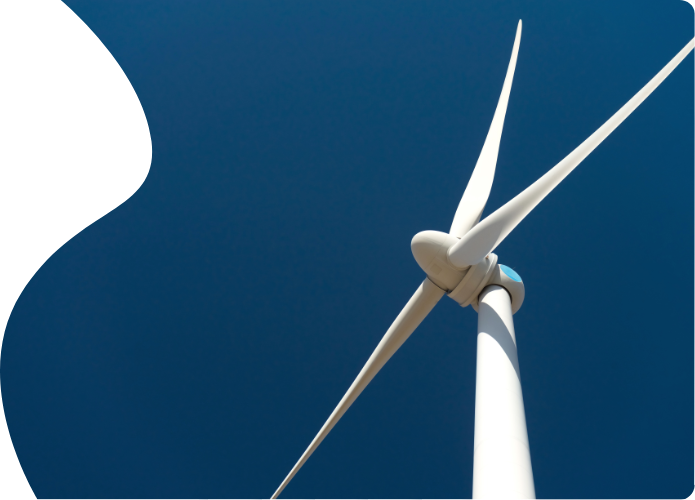
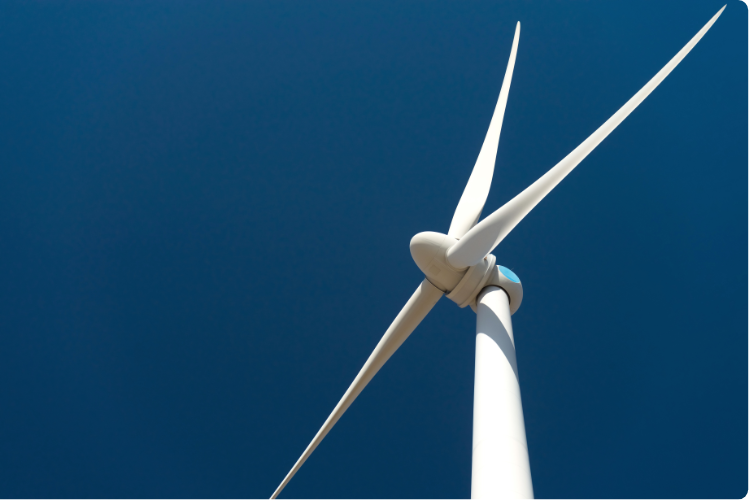
Responsive

diff --git a/index.html b/index.html
@@ -10,8 +10,8 @@
     <script src="https://code.jquery.com/jquery-3.2.1.slim.min.js" integrity="sha384-KJ3o2DKtIkvYIK3UENzmM7KCkRr/rE9/Qpg6aAZGJwFDMVNA/GpGFF93hXpG5KkN" crossorigin="anonymous"></script>
     <script src="https://cdnjs.cloudflare.com/ajax/libs/popper.js/1.12.9/umd/popper.min.js" integrity="sha384-ApNbgh9B+Y1QKtv3Rn7W3mgPxhU9K/ScQsAP7hUibX39j7fakFPskvXusvfa0b4Q" crossorigin="anonymous"></script>
     <script src="https://maxcdn.bootstrapcdn.com/bootstrap/4.0.0/js/bootstrap.min.js" integrity="sha384-JZR6Spejh4U02d8jOt6vLEHfe/JQGiRRSQQxSfFWpi1MquVdAyjUar5+76PVCmYl" crossorigin="anonymous"></script>
-    <link href="../Resources/Style/common.css" rel="stylesheet">
-    <link href="../Resources/Style/Blog/blog.css" rel="stylesheet">
+    <link href="resources/style/common.css" rel="stylesheet">
+    <link href="resources/style/blog/blog.css" rel="stylesheet">
 
 </head>
 <body>
@@ -19,7 +19,7 @@
 <header>
     <nav class="navbar navbar-expand-md">
         <a class="navbar-brand" href="#">
-            <img id="logo" src="../Resources/Image/logo.png" alt="Logo de fox wind">
+            <img id="logo" src="Resources/image/logo.png" alt="Logo de fox wind">
         </a>
         <button class="navbar-toggler custom-toggler" type="button" data-toggle="collapse" data-target="#navbarSupportedContent" aria-controls="navbarSupportedContent" aria-expanded="false" aria-label="Toggle navigation">
             <span class="navbar-toggler-icon"></span>
@@ -77,7 +77,7 @@
     </svg>
 </header>
 <div>
-    <img id="rightDecoration" src="../Resources/Image/RightForm.svg" alt="">
+    <img id="rightDecoration" src="resources/image/RightForm.svg" alt="">
     <div class="rond rond-inv" id="rondInv1"></div>
     <div class="square square-fonce" id="rond01"></div>
 </div>
@@ -91,7 +91,7 @@
             pour ça</h1>
     </div>
     <div class="right">
-        <img src="../Resources/Image/home.svg" draggable="false" alt="">
+        <img src="Resources/image/home.svg" draggable="false" alt="">
     </div>
 </section>
 
@@ -102,7 +102,7 @@
             <div class="col-md-12 articleBlock">
                 <h2>Construction éolienne</h2>
                 <div id="separator"></div>
-                <div class="postPreviewImage" style="background-image: url('../Resources/Image/placeholder.png')"></div>
+                <div class="postPreviewImage" style="background-image: url('resources/image/placeholder.png')"></div>
                 <p>Regarder comment nous avons fait
                     l'éolienne, nos obstacles, nos plans,
                     nos aides, etc. </p>
@@ -119,7 +119,7 @@
             <div class="col-md-12 articleBlock">
                 <h2>Construction éolienne</h2>
                 <div id="separator"></div>
-                <div class="postPreviewImage" style="background-image: url('../Resources/Image/placeholder.png')"></div>
+                <div class="postPreviewImage" style="background-image: url('Resources/image/placeholder.png')"></div>
                 <p>Regarder comment nous avons fait
                     l'éolienne, nos obstacles, nos plans,
                     nos aides, etc. </p>
@@ -136,7 +136,7 @@
                 <div class="col-md-12 articleBlock">
                     <h2>Construction éolienne</h2>
                     <div id="separator"></div>
-                    <div class="postPreviewImage" style="background-image: url('../Resources/Image/placeholder.png')"></div>
+                    <div class="postPreviewImage" style="background-image: url('Resources/image/placeholder.png')"></div>
                     <p>Regarder comment nous avons fait
                         l'éolienne, nos obstacles, nos plans,
                         nos aides, etc. </p>

diff --git a/Resources/Style/Blog/blog.scss b/Resources/Style/Blog/blog.scss
@@ -79,9 +79,11 @@ body{
   margin-bottom: 100px;
 }
 .articleBlock{
-  background-image: url("../../Image/ArticleForm.svg");
+  background-image: url("../../image/ArticleForm.svg");
   background-position: center;
+  background-position-x: -200px;
   background-size: cover;
+  background-repeat: no-repeat;
   border-radius: 17px;
     h2 {
       font-weight: bold;
@@ -116,7 +118,7 @@ body{
     width: 40%;
     height: 100%;
     position: absolute;
-    z-index: 5;
+    z-index: -1;
     background-position: center;
     background-size: cover;
     border-radius: 0px 15px 15px 0px;
@@ -159,8 +161,10 @@ body{
     } }
   }
 }
-@media screen and (max-width: 992px){
+@media screen and (max-width: 991px){
   .articleBlock{
+    background-color: $VertPrincipale1;
+    background-image: none;
     .postPreviewImage {
       display: none;
     }

diff --git a/Resources/Style/Blog/blog.css b/Resources/Style/Blog/blog.css
@@ -117,9 +117,11 @@ body {
 }
 
 .articleBlock {
-  background-image: url("../../Image/ArticleForm.svg");
+  background-image: url("../../image/ArticleForm.svg");
   background-position: center;
+  background-position-x: -200px;
   background-size: cover;
+  background-repeat: no-repeat;
   border-radius: 17px;
 }
 .articleBlock h2 {
@@ -154,7 +156,7 @@ body {
   width: 40%;
   height: 100%;
   position: absolute;
-  z-index: 5;
+  z-index: -1;
   background-position: center;
   background-size: cover;
   border-radius: 0px 15px 15px 0px;
@@ -196,7 +198,11 @@ body {
     font-size: 40px;
   }
 }
-@media screen and (max-width: 992px) {
+@media screen and (max-width: 991px) {
+  .articleBlock {
+    background-color: #606C38;
+    background-image: none;
+  }
   .articleBlock .postPreviewImage {
     display: none;
   }

diff --git a/Resources/Style/common.scss b/Resources/Style/common.scss
@@ -1,7 +1,7 @@
 @import "./variable.scss";
 @import "./fonts.scss";
-@import "./Footer/Footer.scss";
-@import "./Header/Header.scss";
+@import "footer/Footer.scss";
+@import "header/Header.scss";
 
 img{
     user-select: none;

diff --git a/README.md b/README.md
@@ -1,17 +1,15 @@
 # FoxWind
 GitHub du Projet Fil rouge - EDEN School 
 
-[30/04/2021] Léo - Notre Equipe
+[12/05/2021] Léo - Blog
 
 
 Dossiers :
 
-
-    /Blog/                    - Page du Blog
-    /Resources/               - Resources
-      | /Image/               - Images/SVG
-      | /Style/               - SCSS/CSS
-          | /Font/            - Polices d'écriture
-          | /Header/          - Style du Header
-          | /Footer/          - Style du Footer
-          | /Blog/            - Style du Blog
+    /resources/               - Resources
+      | /image/               - Images/SVG
+      | /style/               - SCSS/CSS
+          | /font/            - Polices d'écriture
+          | /header/          - Style du Header
+          | /footer/          - Style du Footer
+          | /blog/            - Style du Blog
